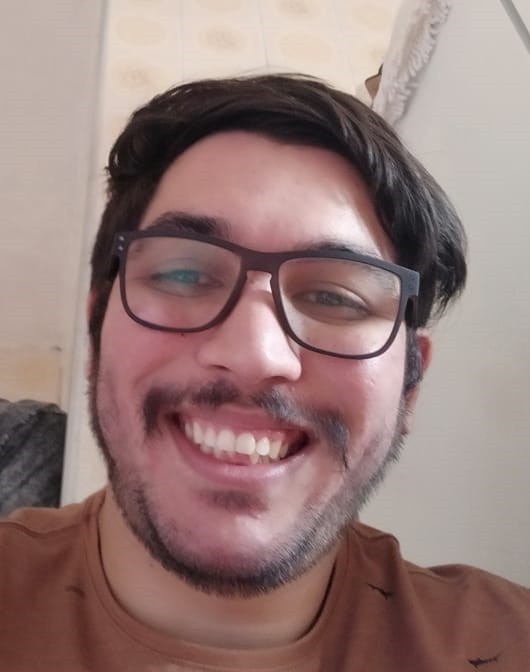
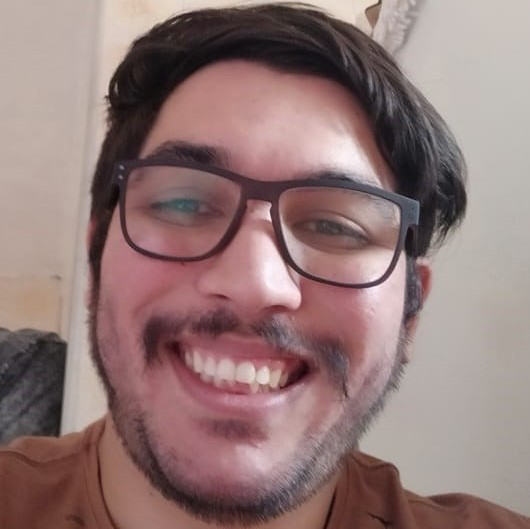
finalizado pagina de estilos

diff --git a/style.css b/style.css
@@ -74,21 +74,29 @@ body {
 }
 
 .profile-photo {
+    width: 30%;
     display: flex;
     justify-content: center;
     align-items: center;
     overflow: hidden;
+    border-radius: 50%;
+    margin: 3rem;
 }
 
 .profile-photo img {
-    width: 60%;
-    border-radius: 100%;
+    width: 100%;
+    height: 100%;
 }
 
 .instagram-login {
     font-size: 26px;
     font-weight: bold;
     background-color: #0295f6;
+    text-align: center;
+    padding-top: 1.4rem;
+    width: 30rem;
+    height: 5rem;
+    border-radius: 8px;
     color: #fff;
 }
 
@@ -114,7 +122,7 @@ body {
     width: 100%;
     justify-content: space-between;
     align-items: center;
-    padding: 1rem;
+    padding: 10rem;
 }
 
 .app-download {
@@ -125,8 +133,33 @@ body {
 
 .app-download:nth-child(1) {
     background-image: url('./assets/img/appstore.png');
+    background-size: cover;
 }
 
 .app-download:nth-child(2) {
     background-image: url('./assets/img/googleplay.png');
+}
+
+@media (max-width: 1024px) {
+    .instagram-wrapper {
+        width: 90%;
+    }
+}
+
+@media (max-width: 650px) {
+    .instagram-wrapper {
+        width: 90%;
+    }
+
+    .instagram-phone {
+        display: none;
+    }
+
+    .instagram-continue {
+        width: 100%;
+    }
+
+    .group {
+        border: 1px solid transparent;
+    }
 }

diff --git a/index.html b/index.html
@@ -11,11 +11,11 @@
         <div class="instagram-phone"><img src="./assets/img/cell-insta.png" alt="celular"></div>
         <div class="instagram-continue">
             <div class="group">
-                <img src="./assets/img/instagrow.png"  class="instagram-logo" alt="instagram nome">
+                <img src="./assets/img/instaname.png"  class="instagram-logo" alt="instagram nome">
                 <div class="profile-photo">
                     <img src="./assets/img/profile-photo.jpeg" alt="foto de perfil">
                 </div>
-                <a href="#" class="instagram-login">Continue como tiagopalomares</a>
+                <a href="#" class="instagram-login">Continuar como tiagopalomares</a>
                 <a href="#" class="instagram-logout">Remover conta</a>
             </div>
             <div class="group">
